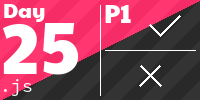
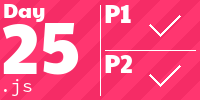
Add day 19 2015

diff --git a/2015/day-19/index.js b/2015/day-19/index.js
@@ -1,3 +1,46 @@
 const $ = require('../../helpers')
 
-module.exports = {}
+const indicesOf = (string, from) => {
+  const indices = []
+  const regex = new RegExp(from, 'g')
+
+  let result
+  while ((result = regex.exec(string))) indices.push(result.index)
+
+  return indices
+}
+
+const replaceAt = (value, from, index, to) =>
+  value.slice(0, index) + value.slice(index).replace(from, to)
+
+const calibrate = input => {
+  const molecule = $.last(input)
+  const molecules = input.slice(0, -2).flatMap(replacement => {
+    const [from, to] = replacement.split(' => ')
+    const indices = indicesOf(molecule, from)
+
+    return indices.map(index => replaceAt(molecule, from, index, to))
+  })
+
+  return new Set(molecules).size
+}
+
+// I attempted to brute-force part 2, to no avail. I definitely did not come up
+// with that solution — I found it on Reddit. The idea is that by carefully
+// inspecting the molecule, one would notice that `Rn` and `Ar` always come in
+// pairs — akin to parentheses. Similarly, `Y*` also only shows up on the right
+// side (as a replacement, not a token), so they should be discounted. And we
+// should also subtract 1 because we start with `e`.
+// Ref: https://www.reddit.com/r/adventofcode/comments/3xflz8/comment/cy4etju/
+// Ref: https://www.reddit.com/r/adventofcode/comments/3xflz8/comment/cy4h7ji/
+const recompose = input => {
+  const molecule = $.last(input)
+  const tokens = $.countInString(molecule, '[A-Z]', false)
+  const Rn = $.countInString(molecule, 'Rn', false)
+  const Ar = $.countInString(molecule, 'Ar', false)
+  const Y = $.countInString(molecule, 'Y', false)
+
+  return tokens - Rn - Ar - 2 * Y - 1
+}
+
+module.exports = { calibrate, recompose }

diff --git a/2015/day-19/test.js b/2015/day-19/test.js
@@ -1,5 +1,41 @@
 const test = require('ava')
-const {} = require('./')
+const { calibrate, recompose } = require('./')
+const input = require('../../helpers/readInput')(__dirname)
 
-test.skip('Day 19 — Sample', t => {})
-test.skip('Day 19 — Solutions', t => {})
+const sampleA = `H => HO
+H => OH
+O => HH
+
+HOH`.split('\n')
+
+const sampleB = `H => HO
+H => OH
+O => HH
+
+HOHOHO`.split('\n')
+
+const sampleC = `e => H
+e => O
+H => HO
+H => OH
+O => HH
+
+HOH`.split('\n')
+
+const sampleD = `e => H
+e => O
+H => HO
+H => OH
+O => HH
+
+HOHOHO`.split('\n')
+
+test('Day 19 — Sample', t => {
+  t.is(calibrate(sampleA), 4)
+  t.is(calibrate(sampleB), 7)
+})
+
+test('Day 19 — Solutions', t => {
+  t.is(calibrate(input), 509)
+  t.is(recompose(input), 195)
+})

diff --git a/helpers/countInString.js b/helpers/countInString.js
@@ -2,7 +2,11 @@
 // @param {String} haystack - String to find needle in
 // @param {String} needle - String to find in haystack
 // @return {Number}
-const countInString = (haystack, needle) =>
-  Array.from(haystack.matchAll(new RegExp(`(?=(${needle}))`, 'gi'))).length || 0
+const countInString = (haystack, needle, insensitive = true) =>
+  Array.from(
+    haystack.matchAll(
+      new RegExp(`(?=(${needle}))`, ['g', insensitive ? 'i' : ''].join(''))
+    )
+  ).length || 0
 
 module.exports = countInString

diff --git a/README.md b/README.md
@@ -58,8 +58,8 @@
 <a href="2022/day-18/index.js">
   <img src="Media/2022/18.png" alt="Day 18 2022: Complete" width="161px">
 </a>
-<a href="2022/day-19/index.js">
-  <img src="Media/2022/19.png" alt="Day 19 2022: Complete" width="161px">
+<a href="#">
+  <img src="Media/2022/19.png" alt="Day 19 2022: Incomplete" width="161px">
 </a>
 <a href="2022/day-20/index.js">
   <img src="Media/2022/20.png" alt="Day 20 2022: Complete" width="161px">
@@ -548,7 +548,7 @@
   <img src="Media/2016/25.png" alt="Day 25 2016: Incomplete" width="161px">
 </a>
 <h1 align="center">
-  2015 - 48 ⭐
+  2015 - 50 ⭐
 </h1>
 <a href="2015/day-01/index.js">
   <img src="Media/2015/01.png" alt="Day 1 2015: Complete" width="161px">
@@ -605,7 +605,7 @@
   <img src="Media/2015/18.png" alt="Day 18 2015: Complete" width="161px">
 </a>
 <a href="2015/day-19/index.js">
-  <img src="Media/2015/19.png" alt="Day 19 2015: Partially complete" width="161px">
+  <img src="Media/2015/19.png" alt="Day 19 2015: Complete" width="161px">
 </a>
 <a href="2015/day-20/index.js">
   <img src="Media/2015/20.png" alt="Day 20 2015: Complete" width="161px">
@@ -623,6 +623,6 @@
   <img src="Media/2015/24.png" alt="Day 24 2015: Complete" width="161px">
 </a>
 <a href="2015/day-25/index.js">
-  <img src="Media/2015/25.png" alt="Day 25 2015: Partially complete" width="161px">
+  <img src="Media/2015/25.png" alt="Day 25 2015: Complete" width="161px">
 </a>
 <!-- AOC TILES END -->
